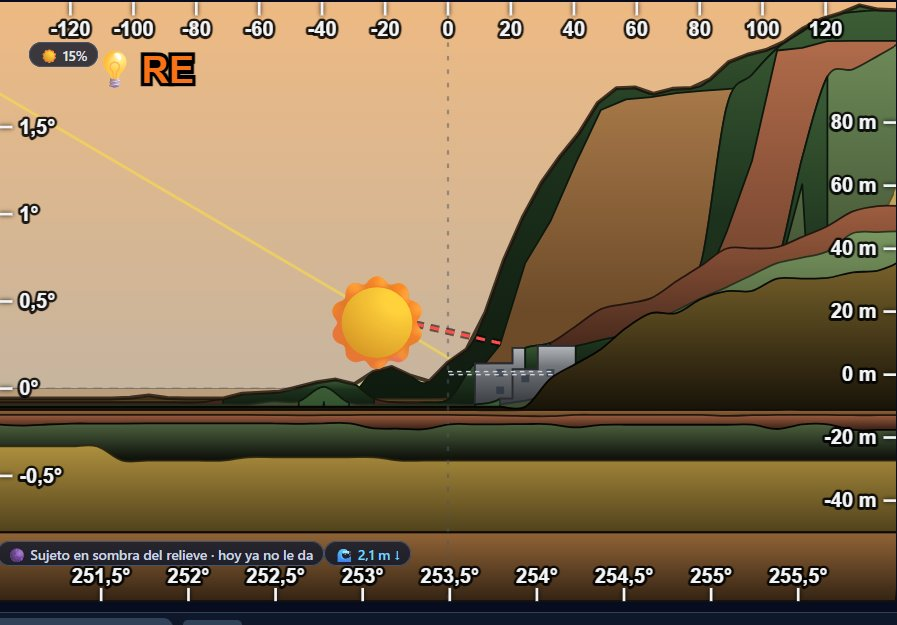
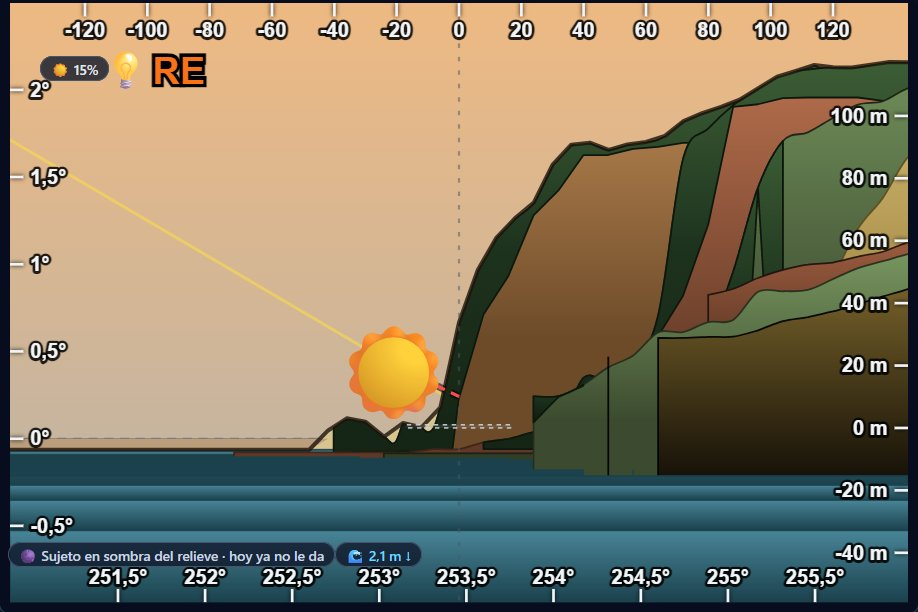
Web 30/10/2026 11:26:30,60

diff --git a/plan-a-la-foto/tajo-puesta-sol.html b/plan-a-la-foto/tajo-puesta-sol.html
@@ -43,7 +43,7 @@
   <h2>El plan</h2>
   <p>El sujeto, las rocas del Tajo, al pie del acantilado de Barbate. El astro, el Sol poniéndose en el mar el 29 de octubre. ASTROZABAL situaba la cámara en la playa de la Hierbabuena, a 3,2 km, y daba el Sol tocando la roca a las 18:27, a medio grado sobre el horizonte.</p>
   <div class="dos ancha" style="margin-top:24px">
-    <figure class="marco"><img src="/img/tajo-esquema.jpg" width="897" height="625" alt="Esquema de encuadre de ASTROZABAL: el Sol a medio grado de altura y 253,5° de acimut, junto a las rocas, con el acantilado a la derecha" loading="lazy"><figcaption><span>Encuadre · Esquema a 400 mm eq.</span></figcaption></figure>
+    <figure class="marco"><img src="/img/tajo-esquema.jpg" width="918" height="612" alt="Esquema de encuadre de ASTROZABAL: el Sol a medio grado de altura y 253,5° de acimut, junto a las rocas, sobre el mar, con el acantilado a la derecha" loading="lazy"><figcaption><span>Encuadre · Esquema a 400 mm eq.</span></figcaption></figure>
     <figure class="marco"><img src="/img/tajo-mapa.jpg" width="913" height="703" alt="Mapa de ASTROZABAL: la cámara en la playa de la Hierbabuena, junto al puerto de Barbate, y la línea del Sol pasando por las rocas del Tajo, a 3,2 km" loading="lazy"><figcaption><span>Mapa · cámara a 3,2 km</span></figcaption></figure>
   </div>
   <dl class="ficha">
